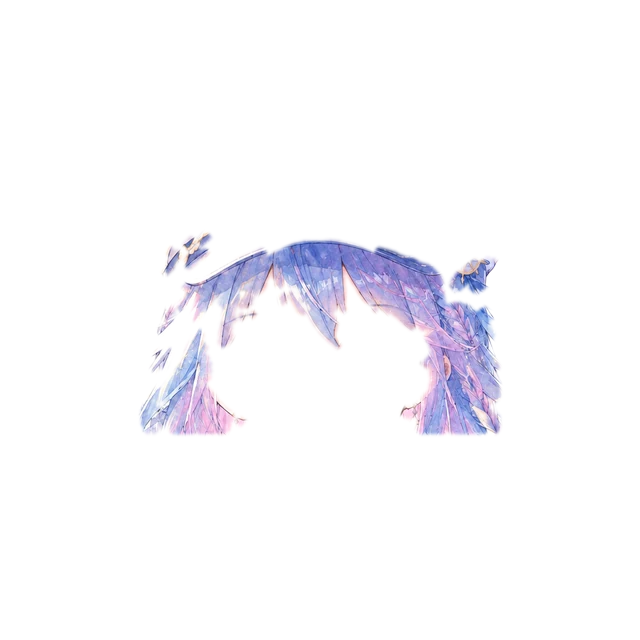
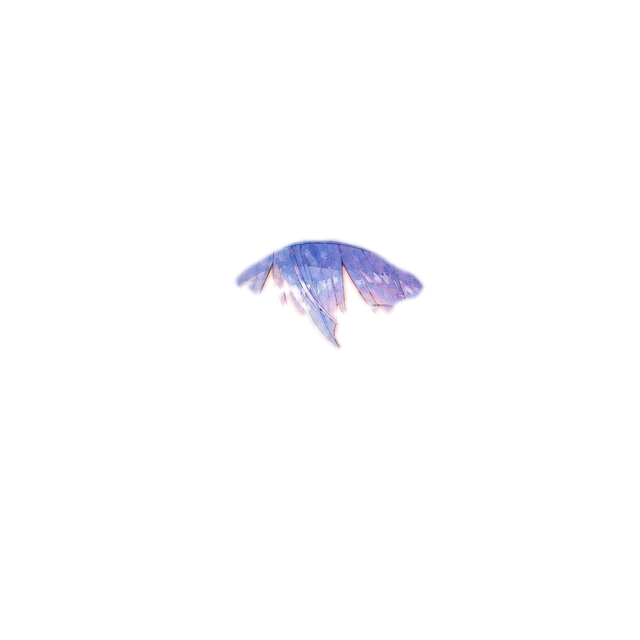
ayn-rig: こめかみの束を別レイヤーで揺らす

Changed region(s): [[0.5625, 0.375, 0.7812, 0.6875], [0.2188, 0.3438, 0.4375, 0.6875]]

diff --git a/public/ayn-rig/rig.json.js b/public/ayn-rig/rig.json.js
@@ -1,1 +1,1 @@
-window.AYN_RIG = {"version": 1, "size": 640, "source": "AYN watercolor bust-up (mks ayn_s2) + custom GPT diff variants", "face": {"cx": 320, "eyes": [220, 325, 421, 380], "mouth": [304, 413, 347, 426], "neck_y": 502}, "layers": [{"name": "body", "file": "body.webp", "z": 0, "group": "body"}, {"name": "head", "file": "head.webp", "z": 1, "group": "head"}, {"name": "hair_L", "file": "hair_L.webp", "z": 2, "group": "head", "pivot": [191, 200], "physics": {"type": "pendulum", "stiffness": 9, "damping": 1.3, "max_deg": 20, "wind": 3.8, "phase": 0.0}}, {"name": "hair_R", "file": "hair_R.webp", "z": 3, "group": "head", "pivot": [467, 236], "physics": {"type": "pendulum", "stiffness": 9, "damping": 1.3, "max_deg": 20, "wind": 3.8, "phase": 1.7}}, {"name": "eyes_closed", "file": "eyes_closed.webp", "z": 4, "group": "head", "switch": "blink"}, {"name": "mouth_open", "file": "mouth_open.webp", "z": 5, "group": "head", "switch": "mouth"}, {"name": "eyes_happy", "file": "eyes_happy.webp", "z": 6, "group": "head", "switch": "expr"}, {"name": "eyes_wink", "file": "eyes_wink.webp", "z": 7, "group": "head", "switch": "expr"}, {"name": "eyes_up", "file": "eyes_up.webp", "z": 8, "group": "head", "switch": "expr"}, {"name": "face_sad", "file": "face_sad.webp", "z": 9, "group": "head", "switch": "expr"}, {"name": "face_surprise", "file": "face_surprise.webp", "z": 10, "group": "head", "switch": "expr"}, {"name": "face_shy", "file": "face_shy.webp", "z": 11, "group": "head", "switch": "expr"}, {"name": "face_angry", "file": "face_angry.webp", "z": 12, "group": "head", "switch": "expr"}, {"name": "face_sleepy", "file": "face_sleepy.webp", "z": 13, "group": "head", "switch": "expr"}, {"name": "glasses", "file": "glasses.webp", "z": 30, "group": "head"}, {"name": "hair_front", "file": "hair_front.webp", "z": 20, "group": "head", "pivot": [320, 249], "physics": {"type": "pendulum", "stiffness": 9, "damping": 1.5, "max_deg": 14, "wind": 16.0, "wind_freq": 0.55, "phase": 0.9}}], "expressions": {"neutral": {}, "happy": {"layers": ["eyes_happy"], "bangs": 5}, "wink": {"layers": ["eyes_wink"], "bangs": 7}, "think": {"layers": ["eyes_up"], "tilt": -6, "bangs": -6}, "sad": {"layers": ["face_sad"], "tilt": 4, "bangs": 4}, "surprise": {"layers": ["face_surprise"], "bangs": 0}, "kubikashige": {"layers": ["eyes_happy"], "tilt": 10, "bangs": 8}, "shy": {"layers": ["face_shy"], "tilt": 3, "bangs": 5}, "angry": {"layers": ["face_angry"], "bangs": -4}, "sleepy": {"layers": ["face_sleepy"], "tilt": -5, "bangs": -5}}, "groups": {"head": {"pivot": [320, 502], "tilt_deg": 4.0, "breathe_px": 6}, "body": {"pivot": [320, 640], "breathe_px": 3}}};
+window.AYN_RIG = {"version": 1, "size": 640, "source": "AYN watercolor bust-up (mks ayn_s2) + custom GPT diff variants", "face": {"cx": 320, "eyes": [220, 325, 421, 380], "mouth": [304, 413, 347, 426], "neck_y": 502}, "layers": [{"name": "body", "file": "body.webp", "z": 0, "group": "body"}, {"name": "head", "file": "head.webp", "z": 1, "group": "head"}, {"name": "hair_L", "file": "hair_L.webp", "z": 2, "group": "head", "pivot": [191, 200], "physics": {"type": "pendulum", "stiffness": 9, "damping": 1.3, "max_deg": 20, "wind": 3.8, "phase": 0.0}}, {"name": "hair_R", "file": "hair_R.webp", "z": 3, "group": "head", "pivot": [467, 236], "physics": {"type": "pendulum", "stiffness": 9, "damping": 1.3, "max_deg": 20, "wind": 3.8, "phase": 1.7}}, {"name": "eyes_closed", "file": "eyes_closed.webp", "z": 4, "group": "head", "switch": "blink"}, {"name": "mouth_open", "file": "mouth_open.webp", "z": 5, "group": "head", "switch": "mouth"}, {"name": "eyes_happy", "file": "eyes_happy.webp", "z": 6, "group": "head", "switch": "expr"}, {"name": "eyes_wink", "file": "eyes_wink.webp", "z": 7, "group": "head", "switch": "expr"}, {"name": "eyes_up", "file": "eyes_up.webp", "z": 8, "group": "head", "switch": "expr"}, {"name": "face_sad", "file": "face_sad.webp", "z": 9, "group": "head", "switch": "expr"}, {"name": "face_surprise", "file": "face_surprise.webp", "z": 10, "group": "head", "switch": "expr"}, {"name": "face_shy", "file": "face_shy.webp", "z": 11, "group": "head", "switch": "expr"}, {"name": "face_angry", "file": "face_angry.webp", "z": 12, "group": "head", "switch": "expr"}, {"name": "face_sleepy", "file": "face_sleepy.webp", "z": 13, "group": "head", "switch": "expr"}, {"name": "glasses", "file": "glasses.webp", "z": 30, "group": "head"}, {"name": "hair_front", "file": "hair_front.webp", "z": 20, "group": "head", "pivot": [320, 249], "physics": {"type": "pendulum", "stiffness": 12, "damping": 1.8, "max_deg": 5, "wind": 5.0, "wind_freq": 0.55, "phase": 0.9, "expr_bias": 1.0, "gust": 1.0}}, {"name": "temple_L", "file": "temple_L.webp", "z": 18, "group": "head", "pivot": [197, 239], "physics": {"type": "pendulum", "stiffness": 8, "damping": 1.4, "max_deg": 12, "wind": 9.0, "wind_freq": 0.6, "phase": 0.4, "expr_bias": 0.6, "gust": 1.3}}, {"name": "temple_R", "file": "temple_R.webp", "z": 19, "group": "head", "pivot": [394, 244], "physics": {"type": "pendulum", "stiffness": 8, "damping": 1.4, "max_deg": 12, "wind": 9.0, "wind_freq": 0.6, "phase": 2.1, "expr_bias": 0.6, "gust": 1.3}}], "expressions": {"neutral": {}, "happy": {"layers": ["eyes_happy"], "bangs": 5}, "wink": {"layers": ["eyes_wink"], "bangs": 7}, "think": {"layers": ["eyes_up"], "tilt": -6, "bangs": -6}, "sad": {"layers": ["face_sad"], "tilt": 4, "bangs": 4}, "surprise": {"layers": ["face_surprise"], "bangs": 0}, "kubikashige": {"layers": ["eyes_happy"], "tilt": 10, "bangs": 8}, "shy": {"layers": ["face_shy"], "tilt": 3, "bangs": 5}, "angry": {"layers": ["face_angry"], "bangs": -4}, "sleepy": {"layers": ["face_sleepy"], "tilt": -5, "bangs": -5}}, "groups": {"head": {"pivot": [320, 502], "tilt_deg": 4.0, "breathe_px": 6}, "body": {"pivot": [320, 640], "breathe_px": 3}}};

diff --git a/public/ayn-rig/rig.js b/public/ayn-rig/rig.js
@@ -34,7 +34,7 @@ class AynRig {
   gust(strength = 1, dir = 0) {
     this.gustSeq = (this.gustSeq || 0) + 1;
     const d = dir || (this.gustSeq % 2 ? 1 : -1);
-    for (const L of this.layers) if (L.physics) L.vel += d * strength * L.physics.max_deg * 1.6 * (L.name === 'hair_front' ? 1.3 : 1);
+    for (const L of this.layers) if (L.physics) L.vel += d * strength * L.physics.max_deg * 1.6 * (L.physics.gust ?? (L.name === 'hair_front' ? 1.3 : 1));
   }
   /** 首傾げ(度)。正=向かって右に傾く。0 で戻る。表情の tilt に足される */
   tilt(deg) { this.tiltExtra = deg || 0; }
@@ -76,7 +76,7 @@ class AynRig {
                    + Math.sin(t * 0.23 + p.phase * 3) * 0.25;   // ゆっくりした「そよ風」の強弱
         const drive = wind * p.wind + (-tiltAcc * 0.004) + (st.speaking ? Math.sin(t * 3.1 + p.phase) * 0.25 : 0);
         // 表情の「流れ」(bias): 前髪だけ、ばねの中心をずらす
-        const bias = (L.name === 'hair_front' && this.expr) ? (this.expr.bangs || 0) : 0;
+        const bias = this.expr ? (this.expr.bangs || 0) * (p.expr_bias ?? (L.name === 'hair_front' ? 1 : 0)) : 0;
         const acc = -p.stiffness * (L.angle - bias) - p.damping * L.vel + drive * p.stiffness * 0.5;
         L.vel += acc * dt; L.angle += L.vel * dt;
         L.angle = Math.max(-p.max_deg, Math.min(p.max_deg, L.angle));
